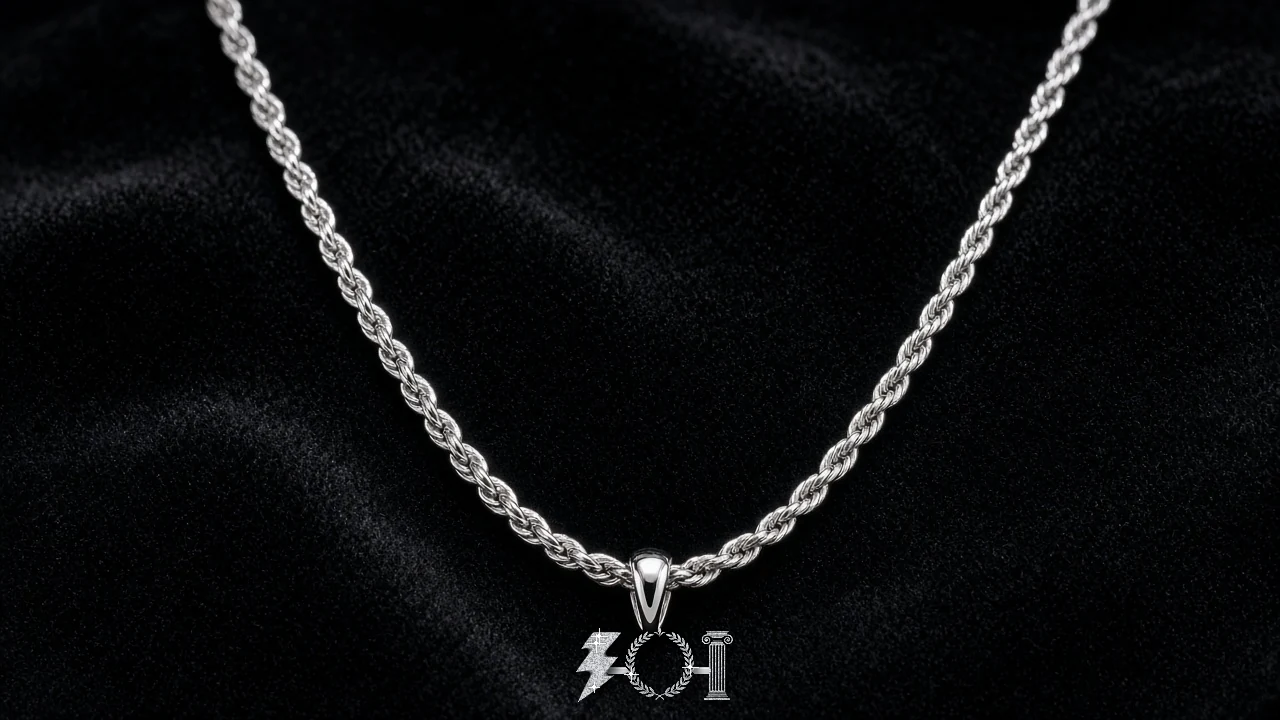
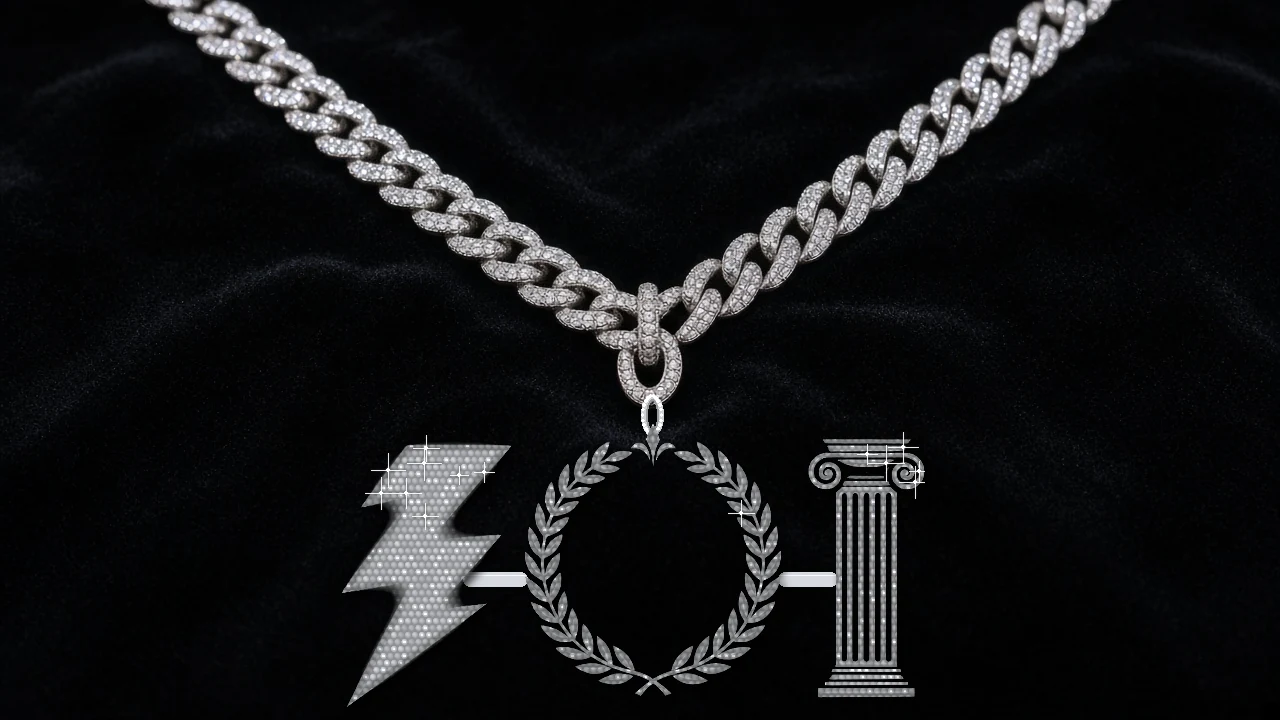
Shop v8: bigger iced ZOI pendant on Cuban link chain

diff --git a/public/shop.html b/public/shop.html
@@ -5,34 +5,34 @@
 <title>Shop — ZOI</title>
 <meta name="description" content="Official ZOI merch — jerseys, hoodies, caps and more. Coming soon.">
 <meta name="theme-color" content="#050506">
-<link rel="icon" href="favicon.ico" sizes="any"><link rel="icon" type="image/png" href="favicon-32.png"><link rel="apple-touch-icon" href="assets/apple-touch-icon.png?v=7">
+<link rel="icon" href="favicon.ico" sizes="any"><link rel="icon" type="image/png" href="favicon-32.png"><link rel="apple-touch-icon" href="assets/apple-touch-icon.png?v=8">
 <link rel="canonical" href="https://zoisports.com/shop">
-<link rel="stylesheet" href="styles.css?v=7">
+<link rel="stylesheet" href="styles.css?v=8">
 </head>
 <body>
-<header class="nav"><a href="/" class="brand"><img src="assets/zoi-icon.png?v=7" alt="" width="36" height="36">ZOI</a>
+<header class="nav"><a href="/" class="brand"><img src="assets/zoi-icon.png?v=8" alt="" width="36" height="36">ZOI</a>
 <button class="menu" aria-label="Menu" aria-expanded="false">☰</button>
 <nav><a href="/#about">About</a><a href="/#roster">Roster</a><a href="/#tryouts">Tryouts</a><a href="/#events">Events</a><a href="/#socials">Socials</a><a href="/shop">Shop</a></nav></header>
 <main id="top">
 <section class="shop-hero"><span class="est">EST. 2026</span><h2>The ZOI Shop</h2><p class="tag">Zero builds. All life. Official merch is on the way.</p></section>
 <div class="stripes" aria-hidden="true"></div>
 <section><div class="cards three products">
- <div class="card product flagship"><img src="/assets/shop/letterman.webp?v=7" alt="ZOI Letterman Jacket mockup" width="1400" height="788"><div class="info"><span class="badge">Flagship</span><h3>ZOI Letterman Jacket</h3><p>The iconic piece. Black wool body, black leather sleeves, white-and-gold striped rib collar, cuffs and waistband, snap front, and a chenille ZOI logo patch on the left chest: gold bolt, gold laurel, marble column.</p><p class="price">Price TBA</p><button class="btn" type="button" disabled>Coming soon</button></div></div>
- <div class="card product"><img src="/assets/shop/jersey.webp?v=7" alt="ZOI Pro Jersey mockup" width="1400" height="788" loading="lazy"><h3>ZOI Pro Jersey</h3><p>The match-day kit. Black mesh jersey with the ZOI logo across the chest (gold bolt, gold laurel, marble column) and gold-and-white V-neck and sleeve trim.</p><p class="price">Price TBA</p><button class="btn" type="button" disabled>Coming soon</button></div>
- <div class="card product"><img src="/assets/shop/hoodie.webp?v=7" alt="Varsity Hoodie mockup" width="1400" height="788" loading="lazy"><h3>Varsity Hoodie</h3><p>Heavyweight black hoodie with the ZOI crest wordmark across the chest: gold bolt, gold laurel, marble column.</p><p class="price">Price TBA</p><button class="btn" type="button" disabled>Coming soon</button></div>
- <div class="card product"><img src="/assets/shop/tee.webp?v=7" alt="Varsity Tee mockup" width="1400" height="788" loading="lazy"><h3>Varsity Tee</h3><p>Black tee with the ZOI logo printed large across the chest: gold bolt, gold laurel, marble column.</p><p class="price">Price TBA</p><button class="btn" type="button" disabled>Coming soon</button></div>
- <div class="card product"><img src="/assets/shop/longsleeve.webp?v=7" alt="ZOI Varsity Long Sleeve mockup" width="1400" height="788" loading="lazy"><h3>ZOI Varsity Long Sleeve</h3><p>Black long sleeve with the ZOI bolt, laurel and column logo on the chest and a vertical logo print running down the left sleeve.</p><p class="price">Price TBA</p><button class="btn" type="button" disabled>Coming soon</button></div>
- <div class="card product"><img src="/assets/shop/cap.webp?v=7" alt="Crest Cap mockup" width="1400" height="788" loading="lazy"><h3>Crest Cap</h3><p>Structured black cap with a curved brim, raised gold crest embroidery: gold bolt, gold laurel, marble column and an adjustable back strap.</p><p class="price">Price TBA</p><button class="btn" type="button" disabled>Coming soon</button></div>
- <div class="card product"><img src="/assets/shop/mousepad.webp?v=7" alt="Desk Mousepad mockup" width="1400" height="788" loading="lazy"><h3>Desk Mousepad</h3><p>Extended black desk mat with the gold crest (gold bolt, gold laurel, marble column) in the corner.</p><p class="price">Price TBA</p><button class="btn" type="button" disabled>Coming soon</button></div>
- <div class="card product"><img src="/assets/shop/tumbler.webp?v=7" alt="ZOI Insulated Tumbler mockup" width="1400" height="788" loading="lazy"><h3>ZOI Insulated Tumbler</h3><p>Matte black insulated tumbler with handle and straw lid, gold bolt, gold laurel and marble column crest on the front.</p><p class="price">Price TBA</p><button class="btn" type="button" disabled>Coming soon</button></div>
- <div class="card product"><img src="/assets/shop/coin.webp?v=7" alt="ZOI Crest Coin mockup" width="1400" height="788" loading="lazy"><h3>ZOI Crest Coin</h3><p>Heavyweight antique-silver flip coin with the column-and-laurel crest in relief. Built for queue time.</p><p class="price">Price TBA</p><button class="btn" type="button" disabled>Coming soon</button></div>
- <div class="card product"><img src="/assets/shop/stickers.webp?v=7" alt="Sticker Pack mockup" width="1400" height="788" loading="lazy"><h3>Sticker Pack</h3><p>Holographic die-cut sticker set: crest, laurel and lightning-bolt designs.</p><p class="price">Price TBA</p><button class="btn" type="button" disabled>Coming soon</button></div>
+ <div class="card product flagship"><img src="/assets/shop/letterman.webp?v=8" alt="ZOI Letterman Jacket mockup" width="1400" height="788"><div class="info"><span class="badge">Flagship</span><h3>ZOI Letterman Jacket</h3><p>The iconic piece. Black wool body, black leather sleeves, white-and-gold striped rib collar, cuffs and waistband, snap front, and a chenille ZOI logo patch on the left chest: gold bolt, gold laurel, marble column.</p><p class="price">Price TBA</p><button class="btn" type="button" disabled>Coming soon</button></div></div>
+ <div class="card product"><img src="/assets/shop/jersey.webp?v=8" alt="ZOI Pro Jersey mockup" width="1400" height="788" loading="lazy"><h3>ZOI Pro Jersey</h3><p>The match-day kit. Black mesh jersey with the ZOI logo across the chest (gold bolt, gold laurel, marble column) and gold-and-white V-neck and sleeve trim.</p><p class="price">Price TBA</p><button class="btn" type="button" disabled>Coming soon</button></div>
+ <div class="card product"><img src="/assets/shop/hoodie.webp?v=8" alt="Varsity Hoodie mockup" width="1400" height="788" loading="lazy"><h3>Varsity Hoodie</h3><p>Heavyweight black hoodie with the ZOI crest wordmark across the chest: gold bolt, gold laurel, marble column.</p><p class="price">Price TBA</p><button class="btn" type="button" disabled>Coming soon</button></div>
+ <div class="card product"><img src="/assets/shop/tee.webp?v=8" alt="Varsity Tee mockup" width="1400" height="788" loading="lazy"><h3>Varsity Tee</h3><p>Black tee with the ZOI logo printed large across the chest: gold bolt, gold laurel, marble column.</p><p class="price">Price TBA</p><button class="btn" type="button" disabled>Coming soon</button></div>
+ <div class="card product"><img src="/assets/shop/longsleeve.webp?v=8" alt="ZOI Varsity Long Sleeve mockup" width="1400" height="788" loading="lazy"><h3>ZOI Varsity Long Sleeve</h3><p>Black long sleeve with the ZOI bolt, laurel and column logo on the chest and a vertical logo print running down the left sleeve.</p><p class="price">Price TBA</p><button class="btn" type="button" disabled>Coming soon</button></div>
+ <div class="card product"><img src="/assets/shop/cap.webp?v=8" alt="Crest Cap mockup" width="1400" height="788" loading="lazy"><h3>Crest Cap</h3><p>Structured black cap with a curved brim, raised gold crest embroidery: gold bolt, gold laurel, marble column and an adjustable back strap.</p><p class="price">Price TBA</p><button class="btn" type="button" disabled>Coming soon</button></div>
+ <div class="card product"><img src="/assets/shop/mousepad.webp?v=8" alt="Desk Mousepad mockup" width="1400" height="788" loading="lazy"><h3>Desk Mousepad</h3><p>Extended black desk mat with the gold crest (gold bolt, gold laurel, marble column) in the corner.</p><p class="price">Price TBA</p><button class="btn" type="button" disabled>Coming soon</button></div>
+ <div class="card product"><img src="/assets/shop/tumbler.webp?v=8" alt="ZOI Insulated Tumbler mockup" width="1400" height="788" loading="lazy"><h3>ZOI Insulated Tumbler</h3><p>Matte black insulated tumbler with handle and straw lid, gold bolt, gold laurel and marble column crest on the front.</p><p class="price">Price TBA</p><button class="btn" type="button" disabled>Coming soon</button></div>
+ <div class="card product"><img src="/assets/shop/coin.webp?v=8" alt="ZOI Crest Coin mockup" width="1400" height="788" loading="lazy"><h3>ZOI Crest Coin</h3><p>Heavyweight antique-silver flip coin with the column-and-laurel crest in relief. Built for queue time.</p><p class="price">Price TBA</p><button class="btn" type="button" disabled>Coming soon</button></div>
+ <div class="card product"><img src="/assets/shop/stickers.webp?v=8" alt="Sticker Pack mockup" width="1400" height="788" loading="lazy"><h3>Sticker Pack</h3><p>Holographic die-cut sticker set: crest, laurel and lightning-bolt designs.</p><p class="price">Price TBA</p><button class="btn" type="button" disabled>Coming soon</button></div>
 </div>
-<div class="cards"><div class="card product flagship reverse"><img src="/assets/shop/pendant-crest.webp?v=7" alt="ZOI Iced Pendant mockup" width="1400" height="788" loading="lazy"><div class="info"><span class="badge">Featured</span><h3>ZOI Iced Pendant</h3><p>Iced white gold ZOI logo pendant (bolt, laurel and column, pavé-set with white stones) on a rope chain.</p><p class="price">Price TBA</p><button class="btn" type="button" disabled>Coming soon</button></div></div></div>
+<div class="cards"><div class="card product flagship reverse"><img src="/assets/shop/pendant-crest.webp?v=8" alt="ZOI Iced Pendant mockup" width="1400" height="788" loading="lazy"><div class="info"><span class="badge">Featured</span><h3>ZOI Iced Pendant</h3><p>Iced white gold ZOI logo pendant (bolt, laurel and column, pavé-set with white stones) on an iced white gold Cuban link chain.</p><p class="price">Price TBA</p><button class="btn" type="button" disabled>Coming soon</button></div></div></div>
 <p class="notify">Get notified when the shop drops: email <a href="mailto:hello@zoisports.com?subject=Notify%20me%20when%20the%20ZOI%20shop%20drops">hello@zoisports.com</a>.</p>
 <p class="small muted">Images are design mockups; final products may differ.</p></section>
 </main>
-<footer><div class="stripes" aria-hidden="true"></div><img src="assets/zoi-icon.png?v=7" alt="" width="48" height="48"><p>ZOI · ζωή · life</p><p class="small">Contact: <a href="mailto:hello@zoisports.com">hello@zoisports.com</a></p><p class="small">© 2026 ZOI. All rights reserved. · <a href="/privacy">Privacy</a> · <a href="/terms">Terms</a></p><p class="small">ZOI is not affiliated with or endorsed by Epic Games. Fortnite is a trademark of Epic Games, Inc.</p></footer>
+<footer><div class="stripes" aria-hidden="true"></div><img src="assets/zoi-icon.png?v=8" alt="" width="48" height="48"><p>ZOI · ζωή · life</p><p class="small">Contact: <a href="mailto:hello@zoisports.com">hello@zoisports.com</a></p><p class="small">© 2026 ZOI. All rights reserved. · <a href="/privacy">Privacy</a> · <a href="/terms">Terms</a></p><p class="small">ZOI is not affiliated with or endorsed by Epic Games. Fortnite is a trademark of Epic Games, Inc.</p></footer>
 <script src="main.js"></script>
 </body>
 </html>

diff --git a/public/index.html b/public/index.html
@@ -5,20 +5,20 @@
 <title>ZOI — Competitive Fortnite Zero Build</title>
 <meta name="description" content="ZOI (zo-EE, Greek ζωή, 'life') is a new competitive Fortnite Zero Build esports organization. Tryouts open.">
 <meta name="theme-color" content="#050506">
-<link rel="icon" href="favicon.ico" sizes="any"><link rel="icon" type="image/png" href="favicon-32.png"><link rel="apple-touch-icon" href="assets/apple-touch-icon.png?v=7">
-<meta property="og:title" content="ZOI — Life in Zero Build"><meta property="og:description" content="New competitive Fortnite Zero Build org. Tryouts open."><link rel="canonical" href="https://zoisports.com/"><meta property="og:url" content="https://zoisports.com/"><meta property="og:image" content="https://zoisports.com/assets/og.jpg?v=7"><meta property="og:type" content="website"><meta name="twitter:card" content="summary_large_image">
+<link rel="icon" href="favicon.ico" sizes="any"><link rel="icon" type="image/png" href="favicon-32.png"><link rel="apple-touch-icon" href="assets/apple-touch-icon.png?v=8">
+<meta property="og:title" content="ZOI — Life in Zero Build"><meta property="og:description" content="New competitive Fortnite Zero Build org. Tryouts open."><link rel="canonical" href="https://zoisports.com/"><meta property="og:url" content="https://zoisports.com/"><meta property="og:image" content="https://zoisports.com/assets/og.jpg?v=8"><meta property="og:type" content="website"><meta name="twitter:card" content="summary_large_image">
 <link rel="preload" href="assets/fonts/Graduate-Regular.ttf" as="font" type="font/ttf" crossorigin>
-<link rel="stylesheet" href="styles.css?v=7">
+<link rel="stylesheet" href="styles.css?v=8">
 </head>
 <body>
-<header class="nav"><a href="#top" class="brand"><img src="assets/zoi-icon.png?v=7" alt="" width="36" height="36">ZOI</a>
+<header class="nav"><a href="#top" class="brand"><img src="assets/zoi-icon.png?v=8" alt="" width="36" height="36">ZOI</a>
 <button class="menu" aria-label="Menu" aria-expanded="false">☰</button>
 <nav><a href="#about">About</a><a href="#roster">Roster</a><a href="#tryouts">Tryouts</a><a href="#events">Events</a><a href="#socials">Socials</a><a href="/shop">Shop</a></nav></header>
 <main id="top">
 <section class="hero">
  <div class="crest">
   <svg class="shield" viewBox="0 0 300 340" aria-hidden="true"><path d="M8 8H292V170C292 260 220 320 150 332C80 320 8 260 8 170Z" fill="#0a0a0b" stroke="#e6d3a0" stroke-width="5"/><path d="M22 22H278V168C278 248 214 302 150 314C86 302 22 248 22 168Z" fill="none" stroke="#e6d3a0" stroke-width="1.5" opacity=".35"/></svg>
-  <img class="logo" src="assets/zoi-icon.png?v=7" alt="ZOI logo: lightning-bolt Z, laurel O, Ionic column I" width="260" height="260">
+  <img class="logo" src="assets/zoi-icon.png?v=8" alt="ZOI logo: lightning-bolt Z, laurel O, Ionic column I" width="260" height="260">
   <span class="est">EST. 2026</span>
  </div>
  <h1>ZOI <span class="pron">— zo-EE</span></h1>
@@ -39,7 +39,7 @@
 <div class="stripes" aria-hidden="true"></div>
 <section id="roster"><h2>Roster</h2>
  <div class="cards">
-  <div class="card player"><img src="assets/zoi-icon.png?v=7" alt="" width="72" height="72"><h3>ZoiKneczi</h3><p class="role">Founder &amp; Owner</p></div>
+  <div class="card player"><img src="assets/zoi-icon.png?v=8" alt="" width="72" height="72"><h3>ZoiKneczi</h3><p class="role">Founder &amp; Owner</p></div>
   <div class="card player open"><div class="slot">+</div><h3>Open spot</h3><p class="role">Zero Build player</p></div>
   <div class="card player open"><div class="slot">+</div><h3>Open spot</h3><p class="role">Zero Build player</p></div>
   <div class="card player open"><div class="slot">+</div><h3>Open spot</h3><p class="role">Content creator</p></div>
@@ -78,7 +78,7 @@
 </section>
 <div class="stripes" aria-hidden="true"></div>
 <section id="shop"><h2>Shop</h2><p>Official ZOI merch is coming — a flagship letterman jacket, jerseys, hoodies and more.</p>
- <div class="teaser"><img src="/assets/shop/jersey.webp?v=7" alt="ZOI Pro Jersey mockup" width="1400" height="788" loading="lazy"><img src="/assets/shop/hoodie.webp?v=7" alt="Crest Hoodie mockup" width="1400" height="788" loading="lazy"><img src="/assets/shop/letterman.webp?v=7" alt="ZOI Letterman Jacket mockup" width="1400" height="788" loading="lazy"></div>
+ <div class="teaser"><img src="/assets/shop/jersey.webp?v=8" alt="ZOI Pro Jersey mockup" width="1400" height="788" loading="lazy"><img src="/assets/shop/hoodie.webp?v=8" alt="Crest Hoodie mockup" width="1400" height="788" loading="lazy"><img src="/assets/shop/letterman.webp?v=8" alt="ZOI Letterman Jacket mockup" width="1400" height="788" loading="lazy"></div>
  <p><a class="btn ghost" href="/shop">Preview the shop</a></p></section>
 <div class="stripes" aria-hidden="true"></div>
 <section id="socials"><h2>Socials</h2><p>Find us everywhere as <strong>@zoi_sports</strong> — channels launching soon.</p>
@@ -87,6 +87,6 @@
  </div>
 </section>
 </main>
-<footer><div class="stripes" aria-hidden="true"></div><img src="assets/zoi-icon.png?v=7" alt="" width="48" height="48"><p>ZOI · ζωή · life</p><p class="small">Contact: <a href="mailto:hello@zoisports.com">hello@zoisports.com</a></p><p class="small">© 2026 ZOI. All rights reserved. · <a href="/privacy">Privacy</a> · <a href="/terms">Terms</a></p><p class="small">ZOI is not affiliated with or endorsed by Epic Games. Fortnite is a trademark of Epic Games, Inc.</p></footer>
+<footer><div class="stripes" aria-hidden="true"></div><img src="assets/zoi-icon.png?v=8" alt="" width="48" height="48"><p>ZOI · ζωή · life</p><p class="small">Contact: <a href="mailto:hello@zoisports.com">hello@zoisports.com</a></p><p class="small">© 2026 ZOI. All rights reserved. · <a href="/privacy">Privacy</a> · <a href="/terms">Terms</a></p><p class="small">ZOI is not affiliated with or endorsed by Epic Games. Fortnite is a trademark of Epic Games, Inc.</p></footer>
 <script src="main.js"></script>
 </body></html>
